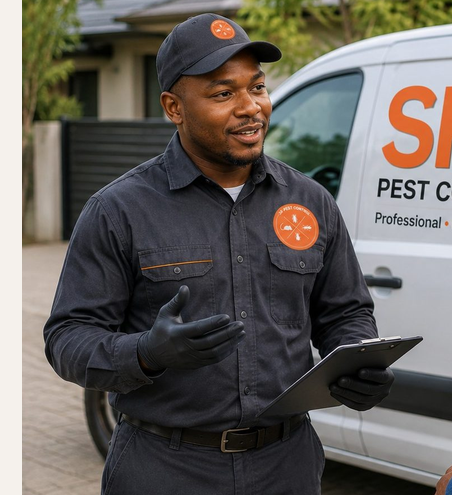
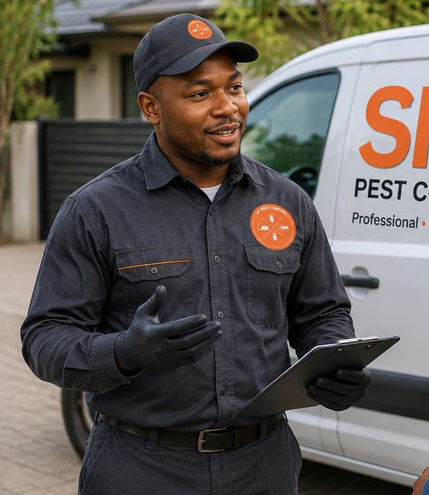
Technician photo: crop blank strip, remove stray > character

diff --git a/resources/views/home.blade.php b/resources/views/home.blade.php
@@ -93,7 +93,7 @@
             <a href="{{ route('about') }}" class="text-primary text-sm font-semibold uppercase">Learn more about us &rarr;</a>
         </div>
       <div class="border-2 border-primary bg-white aspect-video flex items-center justify-center overflow-hidden">
-    <img src="{{ asset('images/technician.jpg') }}" alt="SP Pest Control technician" class="w-full h-full object-cover" style="object-position: top;">>
+    <img src="{{ asset('images/technician.jpg').'?v=2' }}" alt="SP Pest Control technician" class="w-full h-full object-cover" style="object-position: top;">
 </div>
     </div>
     </div>
